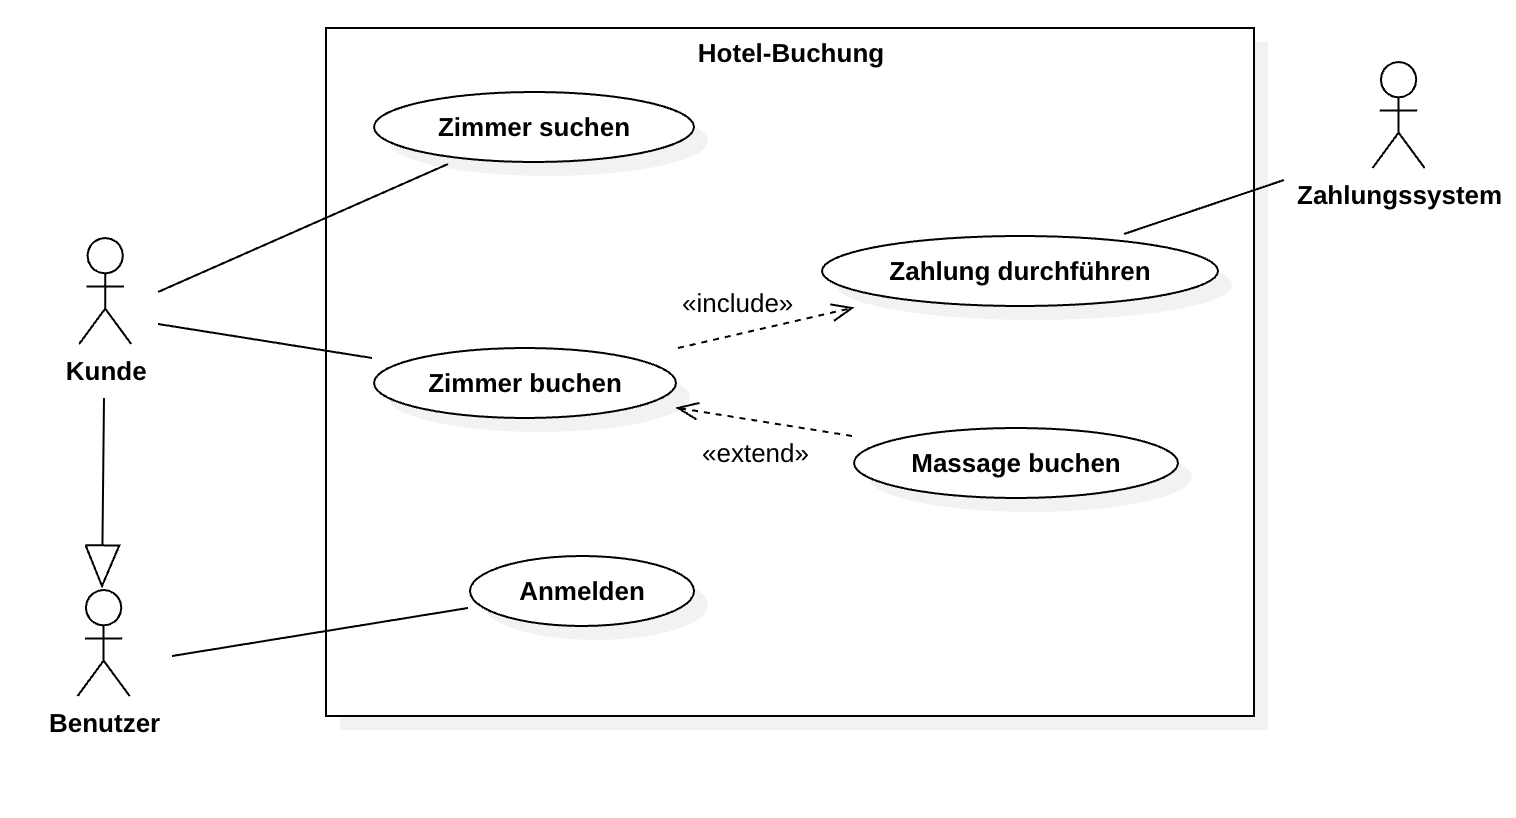
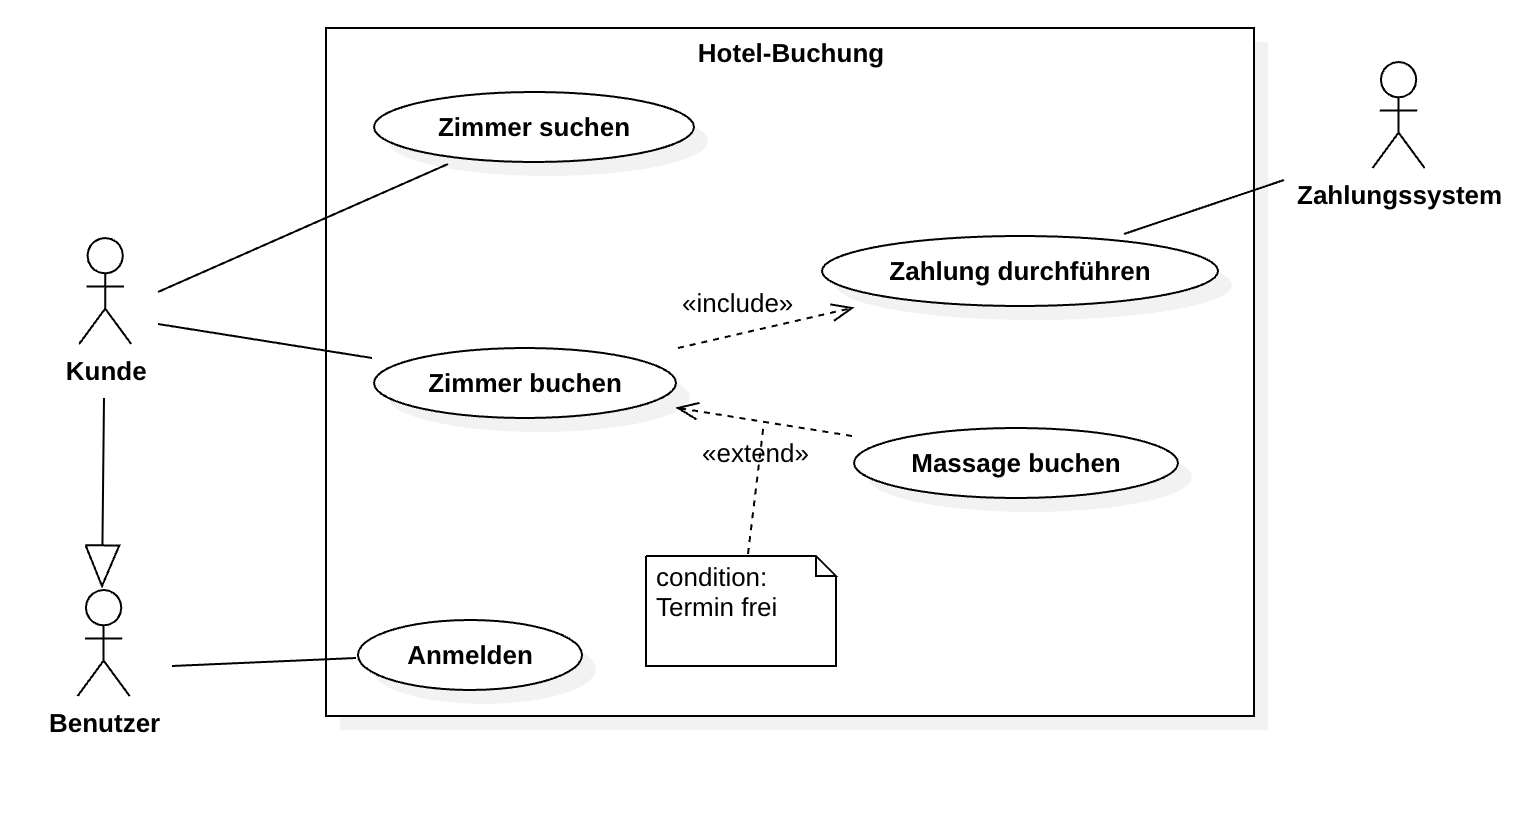
use cases

Changed region(s): [[0.124, 0.6724, 0.527, 0.8557], [0.527, 0.6724, 0.558, 0.7029]]

diff --git a/_posts/2025-01-14-use-case-diagramm.md b/_posts/2025-01-14-use-case-diagramm.md
@@ -3,7 +3,7 @@ layout: single
 title: "Use-Case-Diagramm  "
 date: 2025-01-14
 permalink: /Datenbanken/use-case
-difficulty: "hard"
+difficulty: "medium"
 categories:
     - Anwendungsentwicklung
 tags:
@@ -22,9 +22,11 @@ Dank dieser hohen Abstraktion ist das Use Case Diagramm ein ideales Werkzeug fü
 
 ## Online Buchungssystem
 
+![image-center](/assets/images/buchung_hard.png){: .align-center}
+
 ### Akteure
 
-Zuerst bestimmen wir die Akteure unseres Buchungssystem. Akteure können Personen sowie abstrakte Systeme sein. In unserem Fall benötigen wir die Akteure "Kunde", "Mitarbeiter" und "Zahlungssystem". Das Zahlungssystem ist ein externer Service der sich um die Zahlung kümmert und befindet sich damit, so wie alle Akteure, außerhalb unseres Systems. Die Akteure werden als Strichmännchen dargestellt.
+Zuerst bestimmen wir die Akteure unseres Buchungssystem. Akteure können Personen sowie abstrakte Systeme sein. In unserem Fall benötigen wir die Akteure `Kunde` und `Zahlungssystem`. Das Zahlungssystem ist ein externer Service der sich um die Zahlung kümmert und befindet sich damit, so wie alle Akteure, außerhalb unseres Systems. Die Akteure werden als Strichmännchen dargestellt oder alternativ können Sie auch in einem Rechteck mit der Beschriftung `<<actor>>` dargestellt werden. 
 
 ### System
 
@@ -35,46 +37,40 @@ Das System ist kein logisches Modellelement sondern grenzt den Kontext ab. Diese
 Die eigentlichen Use-Cases bzw. Anwendungsfälle werden innerhalb des Systems und als Ellipsen dargestellt. Für das Buchungssystem benötigen wir die folgenden Anwendungsfälle:
     - Zimmer suchen
     - Zimmer buchen
-    - Zimmer verwalten
-    - Buchung verwalten
     - Zahlung durchführen
+    - Anmelden
 
 ### Assoziationsbeziehung
 
-Wenn ein Akteur mit einem Anwendungsfall kommuniziert, wird dies als Kommunikationsbeziehung oder Assoziation bezeichnet. In unserem Fall kann ein Kunde die Anwendungsfälle "Zimmer suchen" und "Zimmer buchen" ausführen und ein Mitarbeiter die Anwendungsfälle "Zimmer verwalten" und "Buchung verwalten". Assoziationen werden als Linie zwischen Akteur und Anwendungsfall dargestellt.
+Wenn ein Akteur mit einem Anwendungsfall kommuniziert, wird dies als Kommunikationsbeziehung oder Assoziation bezeichnet. In unserem Fall kann ein Kunde die Anwendungsfälle `Zimmer suchen` und `Zimmer buchen` ausführen. Assoziationen werden als Linie zwischen Akteur und Anwendungsfall dargestellt.
 
-
-![image-center](/assets/images/use_case_1.png){: .align-center}
 
 ### Include-Beziehung
 
 Die **Include**-Beziehung besteht immer zwischen Anwendungsfällen. Sie verbindet einen Use Case (Basis-Use Case) mit einem oder mehreren inkludierten Use Cases. Übersetzt heißt das: Ein Anwendungsfall braucht einen anderen Anwendungsfall, dem inkludierten Use Case, um seine Funktionalität im System bereitstellen zu können. Der inkludierte Use Case kann aber separat ausgeführt werden.  Diese ist in einem Use Case-Diagramm durch einen gestrichelten Pfeil und der Beschriftung include dargestellt. Der Pfeil zeigt immer auf den inkludierten Use Case.
 
-Im Online-Buchungssystem soll immer der er Anwendungsfall "Zahlung durchführen" ausgeführt werden wenn "Zimmer buchen" ausgeführt wird:
-
-![image-center](/assets/images/use_case_2.png){: .align-center}
+Im Online-Buchungssystem soll immer der er Anwendungsfall `Zahlung durchführen` ausgeführt werden, wenn `Zimmer buchen` ausgeführt wird:
 
 ### Extend-Beziehung
 
-Werden Teile eines Anwendungsfalls nur unter definierten Bedingungen ausgeführt, bietet sich die Verwendung der Extend-Beziehung an. Die **Extend**-Beziehung erweitert also den Basis-Use Case um eine Funktionalität. Eine Extend-Beziehung wird durch einen gestrichelten Pfeil mit der Beschriftung extend visualisiert. Der Pfeil zeigt immer auf den Basis-Use Case.
+Werden Teile eines Anwendungsfalls nur unter definierten Bedingungen ausgeführt, bietet sich die Verwendung der Extend-Beziehung an. Die **Extend**-Beziehung erweitert also den Basis-Use Case um eine Funktionalität. Eine Extend-Beziehung wird durch einen gestrichelten Pfeil mit der Beschriftung extend visualisiert. Der Pfeil zeigt immer auf den Basis-Use Case. Mithilfe eines Rechtecks kann die Kondition an welche die **Extend**-Beziehung gebunden ist zusätzlich dargestellt werden.
 
-Im Online-Buchungssystem wird eine **Extend**-Beziehung benötigt um die Möglichkeit Massagen zusätzlich zum Zimmer zu buchen einzubauen:
+Im Online-Buchungssystem wird eine **Extend**-Beziehung benötigt um die Möglichkeit Massagen zusätzlich zum Zimmer zu buchen. Diese Erweiterung ist an die Bedingung gebunden, dass ein Termin für die Massage frei ist.
 
-![image-center](/assets/images/use_case_3.png){: .align-center}
 
 ### Generalisierungs-Beziehung
 
 Eine **Generalisierungs**-Beziehung kann zwischen Akteuren und zwischen Anwendungsfällen bestehen.
-Die Generalisierung erinnert stark an die Vererbung im UML-Klassendiagramm. Eine Generalisierungs-Beziehung zwischen Akteuren herrscht, wenn Sie unterschiedliche Akteure definieren, aber diese über gleiche Eigenschaften verfügen. Dann definieren Sie einen allgemeinen Akteur, auf den die beiden Akteure zeigen.
-Die spezialisierten Akteure können mindestens die Rollen der allgemeinen Akteure übernehmen.
+Die Generalisierung erinnert stark an die Vererbung im UML-Klassendiagramm. 
+In unserem Beispiel "erbt" ein `Kunde` alle Use-Cases des `Benutzer`.
 
-Im Online-Buchungstool müssen sowohl Kunden als auch Mitarbeiter sich vor der Benutzung anmelden. Da beide Akteure dieses Verhalten teilen definieren wir einen allgemeinen Akteur "Benutzer":
-
-![image-center](/assets/images/use_case_4.png){: .align-center}
-
-Eine Generalisierungs-Beziehung zwischen Use Cases herrscht, wenn Sie einen allgemeinen Anwendungsfall definieren, der durch einen oder mehreren Anwendungsfälle spezifiziert wird.
+Eine **Generalisierungs**-Beziehung zwischen Use Cases herrscht, wenn Sie einen allgemeinen Anwendungsfall definieren, der durch einen oder mehreren Anwendungsfälle spezifiziert wird.
 Der allgemeine Anwendungsfall vererbt seine Kommunikationsbeziehung(en) an den spezifizierten Anwendungsfall. Der spezialisierte Use Case benötigt den Allgemeinen, kann ihn überschreiben oder ergänzen und erbt all seine Beziehungen.
 
-In unserem Beispiel spezialisieren wir den Anwendungsfall "Zimmer verwalten" mit den Anwendungsfällen "Preis ändern" und "Zeitraum blockieren":
+Unser Beispiel kann man mit solch einer Beziehung erweitern indem man mit `Suite suchen` den Use-Case `Zimmer suchen` spezialisiert:
 
-![image-center](/assets/images/use_case_5.png){: .align-center}
+
+![image-center](/assets/images/buchung_hard.png){: .align-center}
+
+### Fazit
+Ein Use-Case-Diagramm ist ein wertvolles Werkzeug für die Planung und Dokumentation von Systemanforderungen. Es erlaubt einen klaren Überblick darüber, wie ein System benutzt werden kann und welche Rollen und Funktionen beteiligt sind.

diff --git a/_posts/2025-01-14-use-case-diagramm_Easy.md b/_posts/2025-01-14-use-case-diagramm_Easy.md
@@ -30,7 +30,8 @@ Die Hauptbestandteile eines Use-Case-Diagramms sind:
 
 3. **Beziehungen**:
    - **Include**: Zeigt an, dass ein Use-Case einen anderen zwingend einbindet. Beispiel: `Zimmer buchen` schließt `Zahlung durchführen` ein.
-   - **Extend**: Zeigt optional erweiterte Funktionen. Beispiel: `Massage buchen` erweitert `Zimmer buchen`.
+   - **Extend**: Zeigt optional erweiterte Funktionen. Beispiel: `Massage buchen` erweitert `Zimmer buchen`. Die Bedingung kann mithilfe eines Rechtecks dargestellt werden.
+    In unserem Beispiel muss ein Termin frei sein, damit eine Massage gebucht werden kann.
    - **Generalisierung**: Ein `Kunde` kann alles was ein `Benutzer` auch kann, und zusätzlich alle Anwendungsfälle die mit Ihm direkt verbunden sind.
 
 4. **Systemgrenze**:
